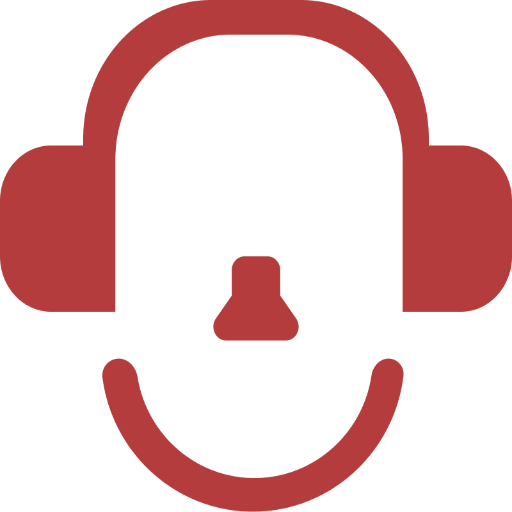
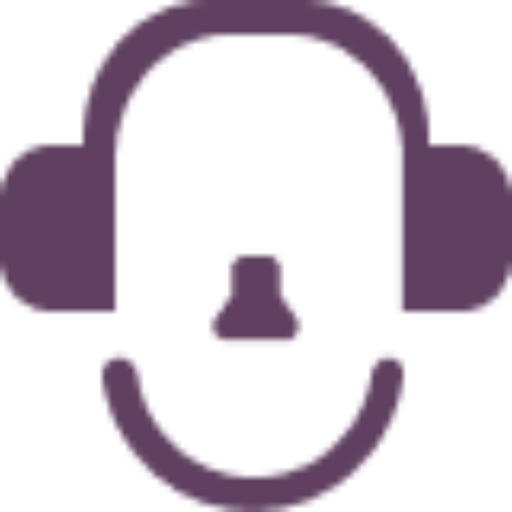
deff

diff --git a/assignment2/script.js b/assignment2/script.js
@@ -70,43 +70,64 @@ function updateProgressBar() {
 
 //maintain style in pip
 pipButton.addEventListener("click", async () => {
-  const player = document.querySelector(".player-content");
+  if (pipActive == false) {
+    const player = document.querySelector(".player-content");
 
-  // Open a Picture-in-Picture window.
-  const pipWindow = await documentPictureInPicture.requestWindow();
+    // Open a Picture-in-Picture window.
+    const pipWindow = await documentPictureInPicture.requestWindow();
+    pipActive = true;
+    console.log(pipActive);
 
-  // Copy style sheets over from the initial document
-  // so that the player looks the same.
-  [...document.styleSheets].forEach((styleSheet) => {
-    try {
-      const cssRules = [...styleSheet.cssRules]
-        .map((rule) => rule.cssText)
-        .join("");
-      const style = document.createElement("style");
+    // Copy style sheets over from the initial document
+    // so that the player looks the same.
+    [...document.styleSheets].forEach((styleSheet) => {
+      try {
+        const cssRules = [...styleSheet.cssRules]
+          .map((rule) => rule.cssText)
+          .join("");
+        const style = document.createElement("style");
 
-      style.textContent = cssRules;
-      pipWindow.document.head.appendChild(style);
-    } catch (e) {
-      const link = document.createElement("link");
+        style.textContent = cssRules;
+        pipWindow.document.head.appendChild(style);
+      } catch (e) {
+        const link = document.createElement("link");
 
-      link.rel = "stylesheet";
-      link.type = styleSheet.type;
-      link.media = styleSheet.media;
-      link.href = styleSheet.href;
-      pipWindow.document.head.appendChild(link);
-    }
-  });
+        link.rel = "stylesheet";
+        link.type = styleSheet.type;
+        link.media = styleSheet.media;
+        link.href = styleSheet.href;
+        pipWindow.document.head.appendChild(link);
+      }
+    });
 
-  // Move the player to the Picture-in-Picture window.
-  pipWindow.document.body.append(player);
+    // Move the player to the Picture-in-Picture window.
+    pipWindow.document.body.append(player);
 
-  // Move the player back when the Picture-in-Picture window closes.
-  pipWindow.addEventListener("pagehide", (event) => {
-    const playerContainer = document.querySelector(".audio-player");
-    const pipPlayer = event.target.querySelector(".player-content");
-    playerContainer.append(pipPlayer);
-  });
+    // Move the player back when the Picture-in-Picture window closes.
+    pipWindow.addEventListener("pagehide", (event) => {
+      const playerContainer = document.querySelector(".audio-player");
+      const pipPlayer = event.target.querySelector(".player-content");
+      playerContainer.append(pipPlayer);
+      pipActive = false;
+    });
+  }
 });
+
+// const pipButton = document.getElementById("pipButton");
+
+// pipButton.addEventListener("click", async () => {
+//   try {
+//     if (document.pictureInPictureElement) {
+//       await document.exitPictureInPicture();
+//     } else {
+//       // Must be playing to enter PiP in some browsers
+//       if (myAudio.paused) await myAudio.play();
+//       await myAudio.requestPictureInPicture();
+//     }
+//   } catch (error) {
+//     console.error("PiP error:", error);
+//   }
+// });
 
 //-----------------------//
 //code taken from class example

diff --git a/assignment2/style.css b/assignment2/style.css
@@ -1,25 +1,30 @@
 /* https://colorhunt.co/palette/1a120b3c2a21d5cea3e5e5cb */
+:root {
+  --maincolor: #452545;
+  --secondarycolor: #604060;
+  --mainwhite: #d9d9d9;
+  --secondarywhite: ;
+}
 
 body {
-  background-color: #730002;
+  background-color: var(--maincolor);
   display: flex;
   /* text-align: center; */
   margin: auto;
   max-width: 1000px;
-  justify-content: center;
+  flex-direction: column;
+  justify-content: space-between;
   align-items: center;
   font-family: "Space Grotesk", sans-serif;
   font-optical-sizing: auto;
   font-weight: 400;
   font-style: normal;
   text-align: center;
-  color: #e5e5cb;
-  /* color: #3c2a21; */
   font-size: 1.1rem;
 }
 
 .player-content {
-  background-color: #d9d9d9;
+  background-color: var(--mainwhite);
   border-radius: 50px;
   padding: 30px;
   display: flex;
@@ -41,7 +46,7 @@ img {
 
 button {
   border: 0;
-  background-color: #d9d9d9;
+  background-color: var(--mainwhite);
   padding-inline: 1rem;
 }
 
@@ -56,17 +61,16 @@ button {
 .audio-info {
   display: flex;
   flex-direction: column;
-  gap: 20px;
 }
 
 #audio-name {
   font-size: 1.4rem;
-  color: #730002;
+  color: var(--maincolor);
 }
 
 #audio-artist {
   font-size: 0.9rem;
-  color: #730002;
+  color: var(--maincolor);
 }
 
 .progress-bar {
@@ -81,7 +85,7 @@ button {
   display: block;
   height: 100%;
   border-radius: 5px;
-  background-color: #730002;
+  background-color: var(--maincolor);
   width: 0;
   transition: width 0.5s ease;
 }
@@ -90,7 +94,7 @@ button {
   -webkit-appearance: none;
   height: 8px;
   border-radius: 5px;
-  background: #730002;
+  background: var(--maincolor);
   /* margin-right: 15px; */
 }
 
@@ -100,7 +104,7 @@ button {
   border-radius: 5px;
   width: 5px;
   height: 20px;
-  background: #730002;
+  background: var(--maincolor);
 }
 
 #volumeSlider::-webkit-slider-thumb:hover {
@@ -118,4 +122,42 @@ button {
 
 .slider-container {
   display: inline;
+}
+
+#pipButton {
+  opacity: 100%;
+}
+
+#contentManager {
+  /* margin: 60px; */
+  width: 500px;
+  min-height: 400px;
+  border-radius: 50px;
+  background-color: var(--mainwhite);
+}
+h1 {
+  padding: 20px;
+  font-size: 2rem;
+  color: var(--maincolor);
+}
+
+.album {
+  width: 100px;
+  height: 100px;
+  background-color: var(--secondarycolor);
+  border-radius: 10px;
+}
+
+#albumGrid {
+  display: inline-grid;
+  grid-template-columns: 1fr 1fr 1fr 1fr;
+  grid-template-rows: 0fr 0fr;
+  gap: 1rem;
+  color: var(--maincolor);
+}
+
+#mainUI {
+  display: flex;
+  flex-direction: row;
+  align-items: center;
 }

diff --git a/assignment2/index.html b/assignment2/index.html
@@ -5,6 +5,11 @@
     <meta name="viewport" content="width=device-width, initial-scale=1.0" />
     <title>Video player assignment</title>
 
+    <!-- <link rel="apple-touch-icon" sizes="180x180" href="/apple-touch-icon.png" />
+    <link rel="icon" type="image/png" sizes="32x32" href="/favicon-32x32.png" />
+    <link rel="icon" type="image/png" sizes="16x16" href="/favicon-16x16.png" />
+    <link rel="manifest" href="/site.webmanifest" /> -->
+
     <link
       rel="apple-touch-icon"
       sizes="180x180"
@@ -32,6 +37,61 @@
     <script src="script.js" defer></script>
   </head>
   <body>
+    <div id="mainUI">
+      <div id="UIimagesOne">
+        <div>
+          <button id="song-button">
+            <img
+              id="song-img"
+              src="/assignment2/assets/images/back.png"
+              alt="Back Button"
+              width="32"
+              height="24"
+            />
+          </button>
+        </div>
+        <div>
+          <button id="playlist-button">
+            <img
+              id="playlist-img"
+              src="/assignment2/assets/images/back.png"
+              alt="Back Button"
+              width="32"
+              height="24"
+            />
+          </button>
+        </div>
+      </div>
+      <div id="contentManager">
+        <h1>Playlists</h1>
+        <section id="albumGrid">
+          <div class="album"></div>
+          <div class="album"></div>
+          <div class="album"></div>
+          <div class="album"></div>
+          <div class="playlistName">Playlist 1</div>
+          <div class="playlistName">Playlist 2</div>
+          <div class="playlistName">Playlist 3</div>
+          <div class="playlistName">Playlist 4</div>
+          <div class="album"></div>
+          <div class="album"></div>
+          <div></div>
+          <div></div>
+          <div class="playlistName">Playlist 5</div>
+          <div class="playlistName">Playlist 6</div>
+        </section>
+        <section id="nameGrid">
+          <div class="playlistName"></div>
+          <div class="playlistName"></div>
+          <div class="playlistName"></div>
+          <div class="playlistName"></div>
+        </section>
+      </div>
+      <div id="UIimagesTwo">
+        <p>hello</p>
+        <p>hello</p>
+      </div>
+    </div>
     <div class="audio-player">
       <div class="player-content">
         <audio
